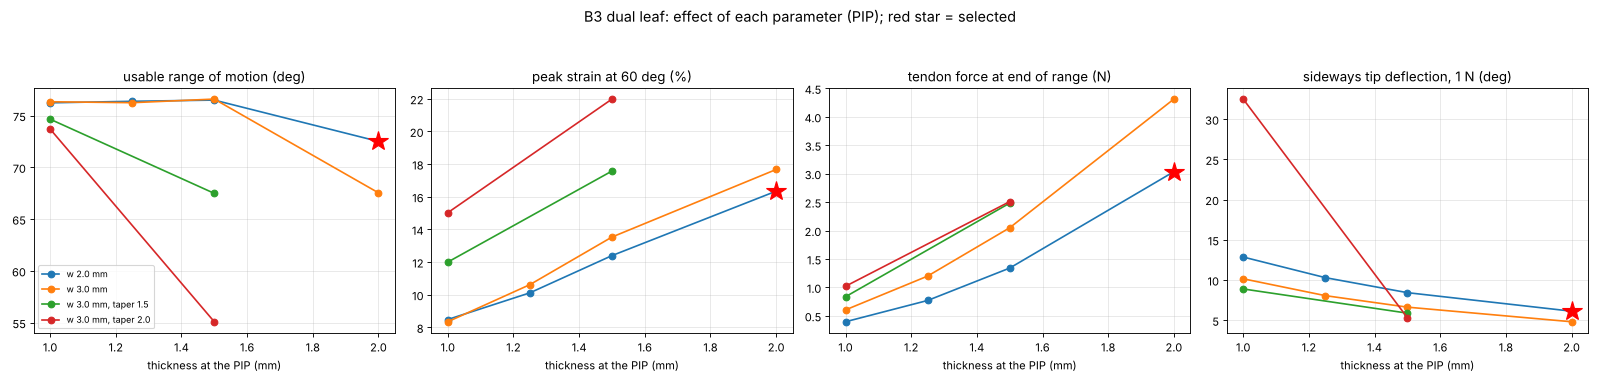
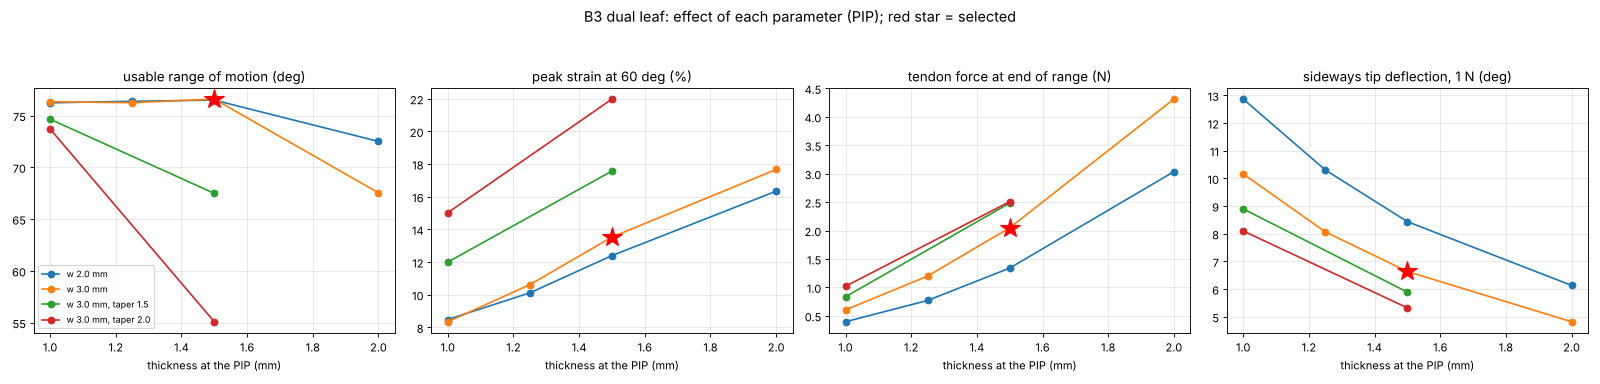
Type B FEA: read off-axis stiffness by step time, gate return at 1x weight moment
Claude-Session: https://claude.ai/code/session_019vgzUQvkjgwLd39ScRBGKN

diff --git a/TYPE B/analysis/analyse_results.py b/TYPE B/analysis/analyse_results.py
@@ -31,7 +31,7 @@ REF_ANGLE = 60.0             # common angle for comparing strain and stress
 TENDON_Y = {"MCP": -3.06, "PIP": -1.93, "DIP": -1.06}
 GRAVITY_MOMENT = {"MCP": 3.678, "PIP": 0.797, "DIP": 0.147}   # N.mm, distal chain horizontal
 JOINT_TO_TIP = {"MCP": 86.6, "PIP": 44.8, "DIP": 19.6}         # mm
-RETURN_FACTOR = 2.0          # restoring moment at 20 deg must be >= 2x the weight moment
+RETURN_FACTOR = 1.0          # restoring moment at 20 deg must carry the weight of the distal finger
 TWIST_ARM = 5.0              # mm: 1 N pinch force 5 mm off the finger axis
 
 WEIGHTS = {
@@ -128,7 +128,8 @@ def metrics(r, joint):
         m["side_defl_deg"] = math.degrees(1.0 * JOINT_TO_TIP[joint] / r["k_lateral"])
         m["twist_deg"] = math.degrees(1.0 * TWIST_ARM / r["k_torsion"])
         m["compression_mm"] = (m["tendon_force_N"] or 0) / r["k_axial"]
-    m["returns_ok"] = m["moment_at_20_Nmm"] >= RETURN_FACTOR * GRAVITY_MOMENT[joint]
+    m["return_margin"] = m["moment_at_20_Nmm"] / GRAVITY_MOMENT[joint]
+    m["returns_ok"] = m["return_margin"] >= RETURN_FACTOR
     m["elements"] = r.get("elements")
     m["model"] = r.get("model")
     return m
@@ -325,7 +326,7 @@ def tables(joint, rows, selection):
         lines.append(f"### {FAMILY_LABEL.get(fam, fam)}\n")
         lines.append("| Variant | Range (deg) | Limited by | Strain @60° | Strain @end | Stress @end (MPa) | "
                      "k₀ (N·mm/rad) | Moment @end (N·mm) | Tendon force (N) | Side defl. 1 N (°) | Twist 1 N·5 mm (°) | "
-                     "Centre drift (mm) | Score |")
+                     "Centre drift (mm) | Return margin | Score |")
         lines.append("|" + "---|" * 14)
         for m in fr:
             if m.get("error"):
@@ -338,7 +339,7 @@ def tables(joint, rows, selection):
                 f"{fmt(m['strain_at_ref'] and 100 * m['strain_at_ref'], '{:.1f} %')} | {fmt(100 * m['strain_at_rom'], '{:.1f} %')} | "
                 f"{fmt(m['vm_at_rom_MPa'])} | {fmt(m['k0_Nmm_per_rad'])} | {fmt(m['moment_at_rom_Nmm'])} | "
                 f"{fmt(m['tendon_force_N'])} | {fmt(m.get('side_defl_deg'), '{:.1f}')} | {fmt(m.get('twist_deg'), '{:.1f}')} | "
-                f"{fmt(m['centre_drift_mm'])} | {sc} |")
+                f"{fmt(m['centre_drift_mm'])} | {fmt(m['return_margin'], '{:.1f}×')} | {sc} |")
         w = selection[fam]["winners_by_weighting"]
         lines.append("")
         lines.append("Winner under each weighting: " + ", ".join(f"{k}: `{v}`" for k, v in w.items()))

diff --git a/TYPE B/analysis/fea_typeb.py b/TYPE B/analysis/fea_typeb.py
@@ -76,6 +76,10 @@ _repo_export.write_brep = _write_brep
 
 E_MPA = 12.0
 TARGET_DEG = {"MCP": 90.0, "PIP": 100.0, "DIP": 80.0}
+# Every PIP joint meets the collar hard stop near 76 deg (85 deg with relieved
+# collars), so later runs may stop short of the anatomical target to save time.
+for _j in TARGET_DEG:
+    TARGET_DEG[_j] = float(os.environ.get(f"TYPEB_TARGET_{_j}", TARGET_DEG[_j]))
 LATTICE_ELEMENTS_THROUGH = 1.5   # see the mesh check in the report
 FIELD_EVERY = 3           # increments between strain/stress field snapshots
 ROOT_EXCLUSION = 0.4      # mm: peak metrics ignore the sharp collar/flexure corner
@@ -200,6 +204,20 @@ def offaxis_deck(mesh, material, prox, dist, ref_xyz):
         out("*NODE PRINT, NSET=REF, TOTALS=NO\nRF")
         out("*END STEP")
     return "\n".join(buf) + "\n"
+
+
+def offaxis_stiffness(rot_rf, ref_rf):
+    """Stiffnesses from the off-axis prints. Steps end at total time 1, 2 and 3;
+    a step that cuts back prints at every increment, so pick by time, not index."""
+    def at(hist, t):
+        hit = [v for tt, v in hist if abs(tt - t) < 1e-6]
+        return hit[-1] if hit else None
+    small = math.radians(1.0)
+    tor, lat, ax = at(rot_rf, 1.0), at(rot_rf, 2.0), at(ref_rf, 3.0)
+    out = {}
+    if tor is not None and lat is not None and ax is not None:
+        out = dict(k_torsion=abs(tor[2]) / small, k_lateral=abs(lat[1]) / small, k_axial=abs(ax[2]) / 0.02)
+    return out
 
 
 # ---------------------------------------------------------------------------
@@ -481,11 +499,7 @@ def run_joint(name, joint, workdir, elements_through=2, keep=False, ccx="ccx", t
     off = parse_dat(work / "offaxis.dat") if (work / "offaxis.dat").exists() else {}
     rot_rf = off.get(("forces", "ROT"), [])
     ref_rf = off.get(("forces", "REF"), [])
-    small = math.radians(1.0)
-    if len(rot_rf) >= 3 and len(ref_rf) >= 3:
-        res["k_torsion"] = abs(rot_rf[0][1][2]) / small
-        res["k_lateral"] = abs(rot_rf[1][1][1]) / small
-        res["k_axial"] = abs(ref_rf[2][1][2]) / 0.02
+    res.update(offaxis_stiffness(rot_rf, ref_rf))
     res["wall_s"] = round(time.time() - started, 1)
     res["ccx_tail"] = {k: v[-600:] for k, v in logs.items()}
     if not keep:

diff --git a/TYPE B/analysis/repair_offaxis.py b/TYPE B/analysis/repair_offaxis.py
@@ -1,0 +1,26 @@
+"""
+One-off repair: re-read the off-axis stiffnesses of finished runs with the
+time-based parser (the first campaign runs read prints by position, which is
+wrong when CalculiX cut a step into increments).
+
+    python repair_offaxis.py JOINT SCRATCH_DIR
+"""
+import json
+import sys
+from pathlib import Path
+
+sys.path.insert(0, str(Path(__file__).resolve().parent))
+import fea_typeb as T  # noqa: E402
+
+joint, scratch = sys.argv[1], Path(sys.argv[2])
+for p in sorted((Path(__file__).resolve().parent / "results" / joint).glob("*.json")):
+    r = json.loads(p.read_text())
+    runs = sorted(scratch.glob(f"{r['variant']}_{joint}_*/offaxis.dat"), key=lambda q: q.stat().st_mtime)
+    if not runs:
+        print(r["variant"], "no off-axis output kept")
+        continue
+    off = T.parse_dat(runs[-1])
+    k = T.offaxis_stiffness(off.get(("forces", "ROT"), []), off.get(("forces", "REF"), []))
+    print(r["variant"], {a: round(r.get(a) or 0, 1) for a in k}, "->", {a: round(b, 1) for a, b in k.items()})
+    r.update(k)
+    p.write_text(json.dumps(r, indent=1))

diff --git a/TYPE B/analysis/a3_benchmark.py b/TYPE B/analysis/a3_benchmark.py
@@ -28,7 +28,7 @@ import cadquery as cq  # noqa: E402
 
 REF = Path(__file__).resolve().parent / "a3_reference"
 COLLAR = 3.2
-TARGET = 100.0
+TARGET = float(T.os.environ.get("TYPEB_TARGET_PIP", 100.0))
 
 
 def hinge_frame():
@@ -124,7 +124,8 @@ def main(work, out_json, threads=4, size=0.4):
 
 
 if __name__ == "__main__":
-    r = main(sys.argv[1], sys.argv[2], int(sys.argv[3]) if len(sys.argv) > 3 else 4)
+    r = main(sys.argv[1], sys.argv[2], int(sys.argv[3]) if len(sys.argv) > 3 else 4,
+             float(sys.argv[4]) if len(sys.argv) > 4 else 0.4)
     print(r["elements"], r["completed_fraction"])
     for f in r["frames"]:
         print({k: round(v, 4) for k, v in f.items()})

diff --git a/TYPE B/analysis/results/tables_PIP.md b/TYPE B/analysis/results/tables_PIP.md
@@ -1,32 +1,33 @@
 ### B3 dual leaf
 
-| Variant | Range (deg) | Limited by | Strain @60° | Strain @end | Stress @end (MPa) | k₀ (N·mm/rad) | Moment @end (N·mm) | Tendon force (N) | Side defl. 1 N (°) | Twist 1 N·5 mm (°) | Centre drift (mm) | Score |
+| Variant | Range (deg) | Limited by | Strain @60° | Strain @end | Stress @end (MPa) | k₀ (N·mm/rad) | Moment @end (N·mm) | Tendon force (N) | Side defl. 1 N (°) | Twist 1 N·5 mm (°) | Centre drift (mm) | Return margin | Score |
 |---|---|---|---|---|---|---|---|---|---|---|---|---|---|
-| `B3_t200_w20` **(selected)** | 72.5 | strain 20 % | 16.3 % | 20.0 % | 2.44 | 4.64 | 5.74 | 3.04 | 6.1 | 9.8 | 0.76 | 0.656 |
-| `B3_t200_w30` | 67.5 | strain 20 % | 17.7 % | 20.0 % | 2.43 | 7.06 | 8.16 | 4.31 | 4.8 | 7.3 | 0.71 | 0.566 |
-| `B3_t150_w30_taper20` | 55.1 | strain 20 % | 22.0 % | 20.0 % | 2.43 | 5.04 | 4.77 | 2.51 | 5.3 | 6.4 | 0.42 | 0.412 |
-| `B3_t100_w20` | 76.2 | collision | 8.5 % | 10.9 % | 1.31 | 0.57 | 0.75 | 0.40 | 12.9 | 67.8 | 0.79 | not eligible: too weak to return the finger |
-| `B3_t100_w30` | 76.3 | collision | 8.3 % | 10.9 % | 1.31 | 0.86 | 1.14 | 0.60 | 10.2 | 51.2 | 0.77 | not eligible: too weak to return the finger |
-| `B3_t100_w30_taper15` | 74.7 | collision | 12.0 % | 15.3 % | 1.85 | 1.22 | 1.59 | 0.84 | 8.9 | 27.8 | 0.63 | not eligible: too weak to return the finger |
-| `B3_t100_w30_taper20` | 73.7 | collision | 15.0 % | 18.9 % | 2.29 | 1.51 | 1.94 | 1.02 | 32.5 | 18.7 | 0.56 | not eligible: too weak to return the finger |
-| `B3_t125_w20` | 76.4 | collision | 10.1 % | 12.9 % | 1.57 | 1.10 | 1.46 | 0.77 | 10.3 | 36.6 | 0.78 | not eligible: too weak to return the finger |
-| `B3_t125_w30` | 76.2 | collision | 10.6 % | 13.8 % | 1.67 | 1.72 | 2.27 | 1.20 | 8.1 | 25.9 | 0.80 | not eligible: too weak to return the finger |
-| `B3_t150_w20` | 76.5 | collision | 12.4 % | 15.8 % | 1.93 | 1.93 | 2.53 | 1.34 | 8.4 | 21.8 | 0.79 | not eligible: too weak to return the finger |
-| `B3_t150_w30` | 76.6 | collision | 13.5 % | 17.3 % | 2.12 | 2.94 | 3.88 | 2.05 | 6.6 | 16.1 | 0.76 | not eligible: too weak to return the finger |
-| `B3_t150_w30_taper15` | 67.5 | strain 20 % | 17.6 % | 20.0 % | 2.43 | 4.07 | 4.71 | 2.48 | 5.9 | 9.5 | 0.62 | not eligible: too weak to return the finger |
+| `B3_t150_w30` **(selected)** | 76.6 | collision | 13.5 % | 17.3 % | 2.12 | 2.94 | 3.88 | 2.05 | 6.6 | 16.1 | 0.76 | 1.3× | 0.750 |
+| `B3_t150_w30_taper15` | 67.5 | strain 20 % | 17.6 % | 20.0 % | 2.43 | 4.07 | 4.71 | 2.48 | 5.9 | 9.5 | 0.62 | 1.8× | 0.586 |
+| `B3_t200_w20` | 72.5 | strain 20 % | 16.3 % | 20.0 % | 2.44 | 4.64 | 5.74 | 3.04 | 6.1 | 9.8 | 0.76 | 2.0× | 0.555 |
+| `B3_t200_w30` | 67.5 | strain 20 % | 17.7 % | 20.0 % | 2.43 | 7.06 | 8.16 | 4.31 | 4.8 | 7.3 | 0.71 | 3.1× | 0.470 |
+| `B3_t150_w30_taper20` | 55.1 | strain 20 % | 22.0 % | 20.0 % | 2.43 | 5.04 | 4.77 | 2.51 | 5.3 | 6.4 | 0.42 | 2.2× | 0.392 |
+| `B3_t100_w20` | 76.2 | collision | 8.5 % | 10.9 % | 1.31 | 0.57 | 0.75 | 0.40 | 12.9 | 67.8 | 0.79 | 0.2× | not eligible: too weak to return the finger |
+| `B3_t100_w30` | 76.3 | collision | 8.3 % | 10.9 % | 1.31 | 0.86 | 1.14 | 0.60 | 10.2 | 51.2 | 0.77 | 0.4× | not eligible: too weak to return the finger |
+| `B3_t100_w30_taper15` | 74.7 | collision | 12.0 % | 15.3 % | 1.85 | 1.22 | 1.59 | 0.84 | 8.9 | 27.8 | 0.63 | 0.5× | not eligible: too weak to return the finger |
+| `B3_t100_w30_taper20` | 73.7 | collision | 15.0 % | 18.9 % | 2.29 | 1.51 | 1.94 | 1.02 | 8.1 | 18.7 | 0.56 | 0.7× | not eligible: too weak to return the finger |
+| `B3_t125_w20` | 76.4 | collision | 10.1 % | 12.9 % | 1.57 | 1.10 | 1.46 | 0.77 | 10.3 | 36.6 | 0.78 | 0.5× | not eligible: too weak to return the finger |
+| `B3_t125_w30` | 76.2 | collision | 10.6 % | 13.8 % | 1.67 | 1.72 | 2.27 | 1.20 | 8.1 | 25.9 | 0.80 | 0.8× | not eligible: too weak to return the finger |
+| `B3_t150_w20` | 76.5 | collision | 12.4 % | 15.8 % | 1.93 | 1.93 | 2.53 | 1.34 | 8.4 | 21.8 | 0.79 | 0.8× | not eligible: too weak to return the finger |
 
-Winner under each weighting: balanced: `B3_t200_w20`, range-first: `B3_t200_w20`, durability-first: `B3_t200_w20`, equal: `B3_t150_w30_taper20`
+Winner under each weighting: balanced: `B3_t150_w30`, range-first: `B3_t150_w30`, durability-first: `B3_t150_w30`, equal: `B3_t150_w30_taper20`
 
 ### B6 multi-leaf
 
-| Variant | Range (deg) | Limited by | Strain @60° | Strain @end | Stress @end (MPa) | k₀ (N·mm/rad) | Moment @end (N·mm) | Tendon force (N) | Side defl. 1 N (°) | Twist 1 N·5 mm (°) | Centre drift (mm) | Score |
+| Variant | Range (deg) | Limited by | Strain @60° | Strain @end | Stress @end (MPa) | k₀ (N·mm/rad) | Moment @end (N·mm) | Tendon force (N) | Side defl. 1 N (°) | Twist 1 N·5 mm (°) | Centre drift (mm) | Return margin | Score |
 |---|---|---|---|---|---|---|---|---|---|---|---|---|---|
-| `B6_n4_t100` | 76.4 | collision | 7.7 % | 9.9 % | 1.20 | 0.55 | 0.73 | 0.39 | 14.5 | 82.7 | 0.80 | not eligible: too weak to return the finger |
-| `B6_n4_t125` | 76.6 | collision | 9.8 % | 12.6 % | 1.53 | 1.08 | 1.42 | 0.75 | 46.3 | 44.9 | 0.79 | not eligible: too weak to return the finger |
-| `B6_n4_t150` | 76.7 | collision | 12.3 % | 15.8 % | 1.92 | 1.87 | 2.47 | 1.31 | 9.5 | 26.9 | 0.81 | not eligible: too weak to return the finger |
-| `B6_n4_t200` | 64.2 | strain 20 % | 18.6 % | 20.0 % | 2.41 | 4.43 | 4.88 | 2.59 | 7.1 | 12.7 | 0.69 | not eligible: too weak to return the finger |
-| `B6_n6_t100` | 76.6 | collision | 8.1 % | 10.4 % | 1.25 | 0.54 | 0.72 | 0.38 | 16.2 | 97.4 | 0.81 | not eligible: too weak to return the finger |
-| `B6_n6_t125` | 76.7 | collision | 10.1 % | 13.0 % | 1.57 | 1.07 | 1.41 | 0.75 | 51.6 | 52.1 | 0.82 | not eligible: too weak to return the finger |
-| `B6_n6_t150` | 76.7 | collision | 12.6 % | 16.1 % | 2.02 | 1.84 | 2.38 | 1.26 | 43.0 | 31.8 | 0.84 | not eligible: too weak to return the finger |
+| `B6_n6_t200` **(selected)** | 55.2 | self-contact | 16.5 % | 15.4 % | 2.41 | 4.38 | 3.49 | 1.85 | 8.0 | 14.9 | 0.51 | 1.9× | 0.560 |
+| `B6_n4_t200` | 64.2 | strain 20 % | 18.6 % | 20.0 % | 2.41 | 4.43 | 4.88 | 2.59 | 7.1 | 12.7 | 0.69 | 1.9× | 0.458 |
+| `B6_n4_t100` | 76.4 | collision | 7.7 % | 9.9 % | 1.20 | 0.55 | 0.73 | 0.39 | 14.5 | 82.7 | 0.80 | 0.2× | not eligible: too weak to return the finger |
+| `B6_n4_t125` | 76.6 | collision | 9.8 % | 12.6 % | 1.53 | 1.08 | 1.42 | 0.75 | 11.5 | 44.9 | 0.79 | 0.5× | not eligible: too weak to return the finger |
+| `B6_n4_t150` | 76.7 | collision | 12.3 % | 15.8 % | 1.92 | 1.87 | 2.47 | 1.31 | 9.5 | 26.9 | 0.81 | 0.8× | not eligible: too weak to return the finger |
+| `B6_n6_t100` | 76.6 | collision | 8.1 % | 10.4 % | 1.25 | 0.54 | 0.72 | 0.38 | 16.2 | 97.4 | 0.81 | 0.2× | not eligible: too weak to return the finger |
+| `B6_n6_t125` | 76.7 | collision | 10.1 % | 13.0 % | 1.57 | 1.07 | 1.41 | 0.75 | 12.9 | 52.1 | 0.82 | 0.5× | not eligible: too weak to return the finger |
+| `B6_n6_t150` | 76.7 | collision | 12.6 % | 16.1 % | 2.02 | 1.84 | 2.38 | 1.26 | 10.7 | 31.8 | 0.84 | 0.8× | not eligible: too weak to return the finger |
 
-Winner under each weighting: balanced: `None`, range-first: `None`, durability-first: `None`, equal: `None`
+Winner under each weighting: balanced: `B6_n6_t200`, range-first: `B6_n4_t200`, durability-first: `B6_n6_t200`, equal: `B6_n6_t200`
